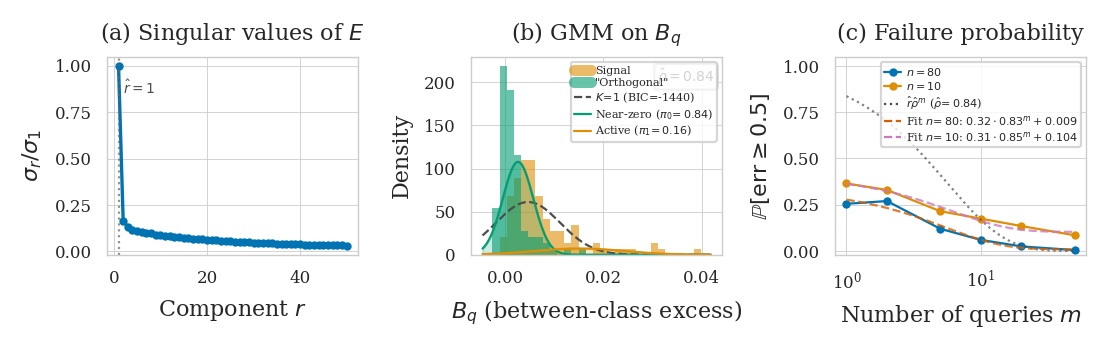
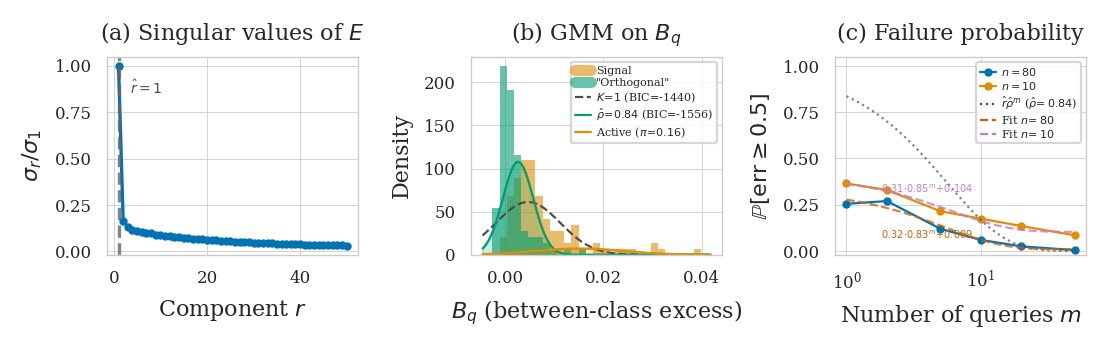
Clean up figure 3 annotations and legends
- (a): Wider r-hat line, annotation shifted right
- (b): Merge rho-hat into single legend with BIC values
- (c): Short legend labels, fit expressions annotated near curves

diff --git a/bbo/plotting/system_prompt_plots.py b/bbo/plotting/system_prompt_plots.py
@@ -68,8 +68,8 @@ def plot_figure3_system_prompt(
                   marker="o", markersize=2)
 
     # Vertical line at r̂
-    ax_scree.axvline(x=r_hat, color="0.4", linestyle=":", linewidth=0.8, alpha=0.7)
-    ax_scree.text(r_hat + 1, 0.85, f"$\\hat{{r}}={r_hat}$",
+    ax_scree.axvline(x=r_hat, color="0.4", linestyle="--", linewidth=1.2, alpha=0.8)
+    ax_scree.text(r_hat + 2.5, 0.85, f"$\\hat{{r}}={r_hat}$",
                   fontsize=5, color="0.3")
 
     ax_scree.set_xlabel("Component $r$")
@@ -117,27 +117,20 @@ def plot_figure3_system_prompt(
         ax_gmm.plot(x_plot, comp_density, color=comp_colors[cidx],
                     linewidth=0.8)
 
-    # Annotate ρ̂
-    ax_gmm.text(0.97, 0.95,
-                f"$\\hat{{\\rho}} = {rho_hat:.2f}$",
-                transform=ax_gmm.transAxes, fontsize=5, va="top", ha="right",
-                bbox=dict(boxstyle="round,pad=0.2", facecolor="white",
-                          edgecolor="0.7", alpha=0.8))
-
     ax_gmm.set_xlabel("$B_q$ (between-class excess)")
     ax_gmm.set_ylabel("Density")
     ax_gmm.set_title("(b) GMM on $B_q$")
 
-    # Legend: histograms + GMM fits with BIC
-    leg_hist = [Line2D([0], [0], color=PALETTE[1], lw=4, alpha=0.6, label="Signal"),
-                Line2D([0], [0], color=PALETTE[2], lw=4, alpha=0.6, label='"Orthogonal"')]
-    leg_gmm = [Line2D([0], [0], color="0.3", linestyle="--", lw=0.8,
-                       label=f"$K\\!=\\!1$ (BIC={bic1:.0f})"),
-               Line2D([0], [0], color=PALETTE[2], linestyle="-", lw=0.8,
-                       label=f"Near-zero ($\\pi_0\\!={rho_hat:.2f}$)"),
-               Line2D([0], [0], color=PALETTE[1], linestyle="-", lw=0.8,
-                       label=f"Active ($\\pi_1\\!={1-rho_hat:.2f}$)")]
-    ax_gmm.legend(handles=leg_hist + leg_gmm, loc="upper right", fontsize=4)
+    # Single legend combining histograms, GMM fits, and ρ̂
+    leg_b = [Line2D([0], [0], color=PALETTE[1], lw=4, alpha=0.6, label="Signal"),
+             Line2D([0], [0], color=PALETTE[2], lw=4, alpha=0.6, label='"Orthogonal"'),
+             Line2D([0], [0], color="0.3", linestyle="--", lw=0.8,
+                    label=f"$K\\!=\\!1$ (BIC={bic1:.0f})"),
+             Line2D([0], [0], color=PALETTE[2], linestyle="-", lw=0.8,
+                    label=f"$\\hat{{\\rho}}\\!=\\!{rho_hat:.2f}$ (BIC={bic2:.0f})"),
+             Line2D([0], [0], color=PALETTE[1], linestyle="-", lw=0.8,
+                    label=f"Active ($\\pi\\!=\\!{1-rho_hat:.2f}$)")]
+    ax_gmm.legend(handles=leg_b, loc="upper right", fontsize=4)
 
     # --- Panel (c): Failure probability P[err >= 0.5] ---
     if fail_csv_path is not None and Path(fail_csv_path).exists():
@@ -210,7 +203,7 @@ def plot_figure3_system_prompt(
             except RuntimeError:
                 pass
 
-        # Legend
+        # Legend (short labels)
         leg = [Line2D([0], [0], color=n_colors[80], linestyle="-", lw=0.8,
                        marker="o", markersize=2, label="$n=80$"),
                Line2D([0], [0], color=n_colors[10], linestyle="-", lw=0.8,
@@ -221,13 +214,24 @@ def plot_figure3_system_prompt(
                                     f" ($\\hat{{\\rho}}\\!={rho_hat:.2f}$)"))
         for n_val in [80, 10]:
             if n_val in fit_results:
-                a_f, rho_f, gamma_f = fit_results[n_val]
                 leg.append(Line2D([0], [0], color=fit_colors[n_val],
                                   linestyle="--", lw=0.8,
-                                  label=f"Fit $n\\!={n_val}$:"
-                                        f" ${a_f:.2f}\\cdot{rho_f:.2f}^m"
-                                        f"+{gamma_f:.3f}$"))
+                                  label=f"Fit $n\\!={n_val}$"))
         ax_fail.legend(handles=leg, loc="upper right", fontsize=4)
+
+        # Annotate fit expressions near the curves
+        annot_cfg = {80: {"m": 4, "va": "top", "offset": -0.04},
+                     10: {"m": 4, "va": "bottom", "offset": 0.04}}
+        for n_val in [80, 10]:
+            if n_val not in fit_results:
+                continue
+            a_f, rho_f, gamma_f = fit_results[n_val]
+            txt = f"${a_f:.2f}\\!\\cdot\\!{rho_f:.2f}^m\\!+\\!{gamma_f:.3f}$"
+            cfg = annot_cfg[n_val]
+            y_annot = _bound_model(cfg["m"], a_f, rho_f, gamma_f)
+            ax_fail.text(cfg["m"], y_annot + cfg["offset"], txt,
+                         fontsize=3.5, color=fit_colors[n_val],
+                         ha="center", va=cfg["va"])
         ax_fail.set_xscale("log")
         ax_fail.set_ylim(-0.02, 1.05)
         ax_fail.set_xlabel("Number of queries $m$")
